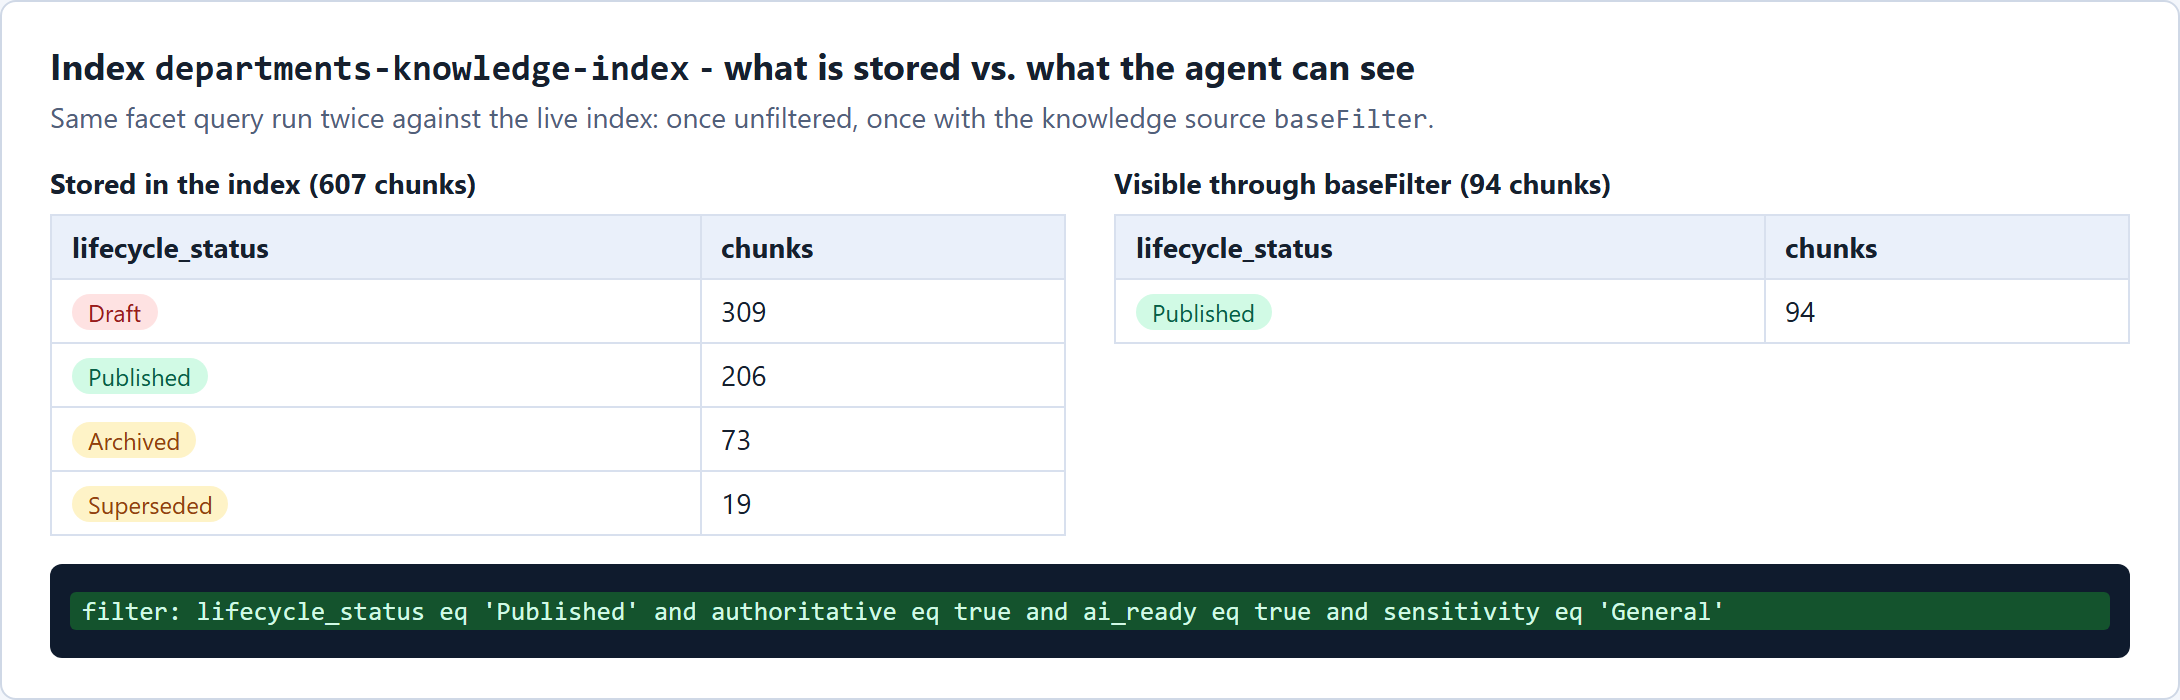
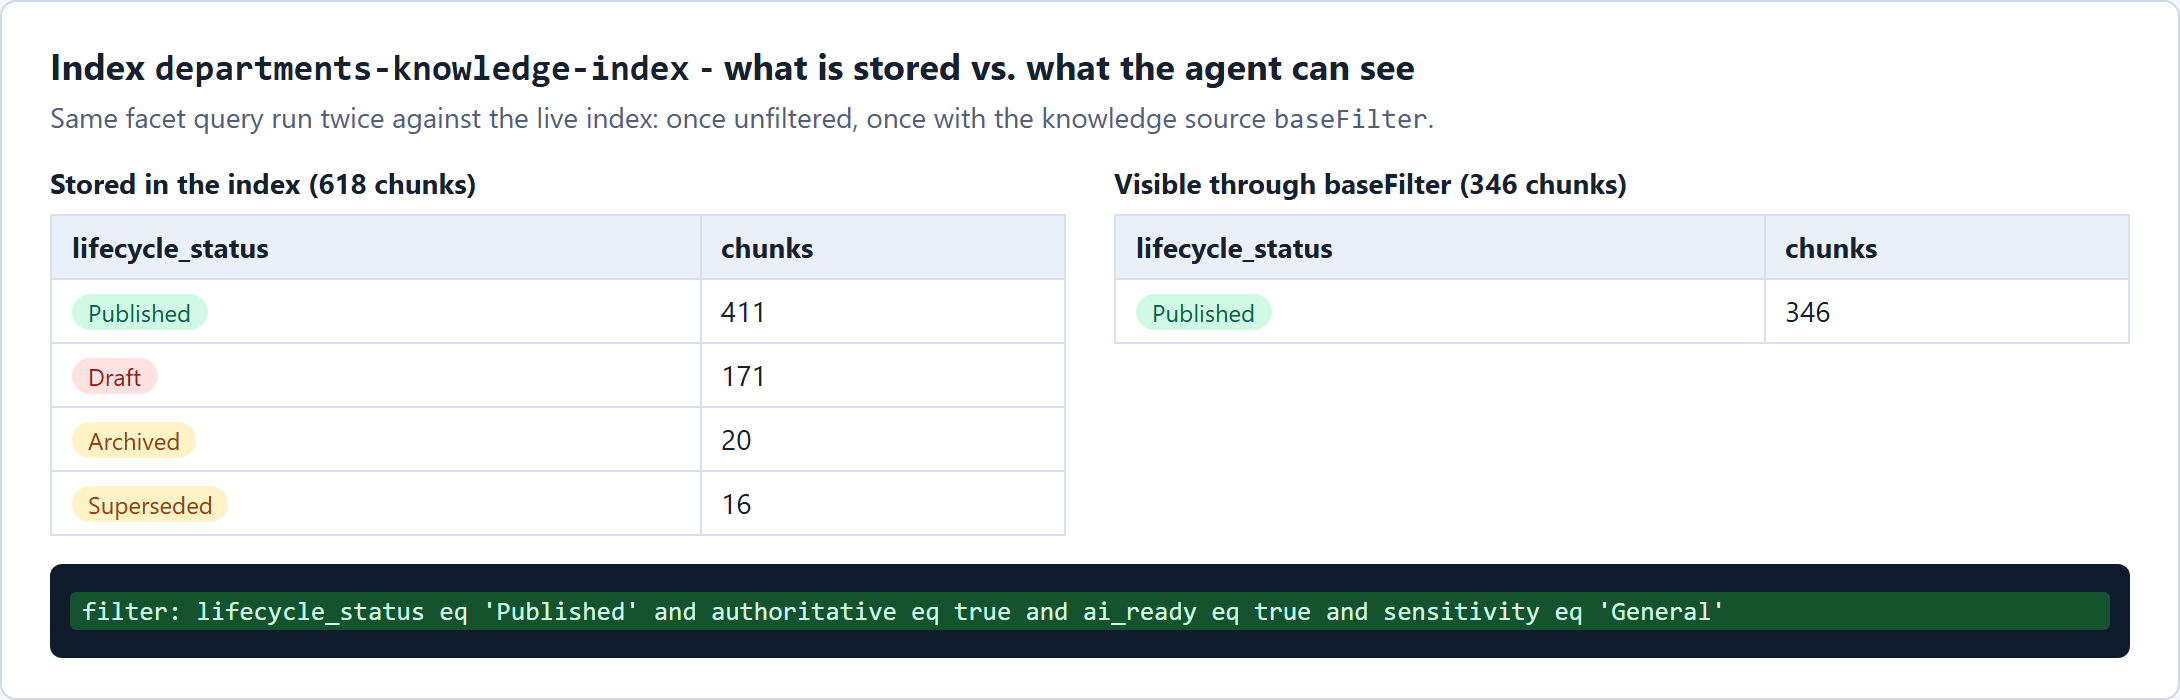
Document accuracy evaluation and visibility design; refresh smoke test and screenshots

diff --git a/README.md b/README.md
@@ -80,7 +80,7 @@ workflows described in [deploy/README.md](deploy/README.md).
 | --- | --- | --- |
 | Azure resource group | `<RESOURCE_GROUP>` | Exists (provisioning state Succeeded) |
 | Ionic web UI | [caldova-aiscr-ui.azurewebsites.net](https://caldova-aiscr-ui.azurewebsites.net/) | Live. Governance UI with the Microsoft logo, the agent button on every page and responsive navigation. |
-| Agent page in the UI | [/agent](https://caldova-aiscr-ui.azurewebsites.net/agent) | Live. Foundry agent page with sample prompts grouped by issue. |
+| Agent page in the UI | [/agent](https://caldova-aiscr-ui.azurewebsites.net/agent) | Live. Site Assistant page (Foundry-backed) with sample prompts grouped by issue. |
 | Python API root | `https://caldova-aiscr-api.azurewebsites.net/api/v1` | Live. Requires a bearer token with the `Auditor` app role. |
 | API Swagger UI | [/docs](https://caldova-aiscr-api.azurewebsites.net/docs) | Live. |
 | API ReDoc | [/redoc](https://caldova-aiscr-api.azurewebsites.net/redoc) | Live. |
@@ -272,7 +272,8 @@ python .\scripts\Sync-GovernanceFields.py
 ```
 
 `scripts/governance-targets.json` lists which libraries the seed, sync and audit
-scripts process.
+scripts process; `config/lifecycle-overrides.json` holds the named lifecycle
+stories the seed applies on top of its repeating pattern.
 
 ### Governance web application
 
@@ -608,8 +609,8 @@ agent's MCP tool calls. A caller can narrow it with `filterAddOn`, never widen
 or replace it. `Provision-SearchIndexes.ps1` and `provision_foundry_agent.ps1`
 both write it from `config/search-indexes.json` and `config/trusted-knowledge.json`,
 so a rebuild cannot drop it. Current counts in `departments-knowledge-index`
-(607 chunks): Draft 309, Published 206, Archived 73, Superseded 19, of which
-94 also satisfy the rest of the filter.
+(618 chunks): Draft 171, Published 411, Archived 20, Superseded 16, of which
+346 also satisfy the rest of the filter (70 documents).
 
 #### Where the filter lives, and why
 
@@ -649,12 +650,47 @@ after any change to the filter.
 
    ![Foundry agent end-to-end test](docs/images/search/04-agent-end-to-end-test.png)
 
-`scripts/Test-FoundryAgent.ps1` proves it end to end. It asks about
+`scripts/Test-FoundryAgent.ps1` is the quick smoke test. It asks about
 draft-only and superseded documents (the competitive win-loss debrief, the
 proposal and pricing template guide, the superseded paid-time-off and leave
 policy) and fails if any is cited, and it retrieves straight
 from the knowledge base and fails if any returned reference is not Published,
 authoritative and AI-ready.
+
+#### Measuring answer accuracy
+
+`scripts/evaluate_agent.py` is the full accuracy evaluation. It reads the live
+index to find every document the agent may see, then asks the agent about each
+one (a summary question plus two single-fact questions, derived from the authored
+content in `scripts/site_corpus_data.py`) and about every visible meeting
+transcript. An answer passes only if it **cites the document's own SharePoint
+link** and **states the document's real facts**. It also asks about hidden
+documents and fails on any citation, and it runs the hand-written, user-style
+questions in [config/agent-eval-questions.json](config/agent-eval-questions.json),
+including the superseded-policy case: the agent must answer *16 weeks* from the
+Parental and Family Leave Policy and must not cite or quote the superseded
+12-week policy.
+
+```powershell
+python .\scripts\evaluate_agent.py --workers 3 --threshold 0.9
+```
+
+Latest run: **184 of 184 answers correct (100%)**, 0 hidden-document citations.
+Requests retry on Foundry rate limits (HTTP 429), so use few workers.
+
+#### Which documents are visible, and why
+
+Visibility is deliberate, not accidental. `Seed-RichGovernanceData.ps1` applies a
+repeating lifecycle pattern per document: most are **Approved** (Published,
+authoritative, owner set, General sensitivity, in date), a minority are Draft, In
+Review, Archived or Superseded, and a few approved ones carry one governance flaw
+(expired, no owner, or confidential) so the cleanup pages have real findings.
+Named stories override the pattern in
+[config/lifecycle-overrides.json](config/lifecycle-overrides.json): core policies
+and procedures stay approved, the proposal template guide and the competitive
+win-loss debrief stay Draft, and the Paid Time Off and Leave of Absence Policy is
+Superseded by the Parental and Family Leave Policy. Stray `(copy)` files are
+always Draft duplicates of their approved originals.
 
 ### Index configuration
 
